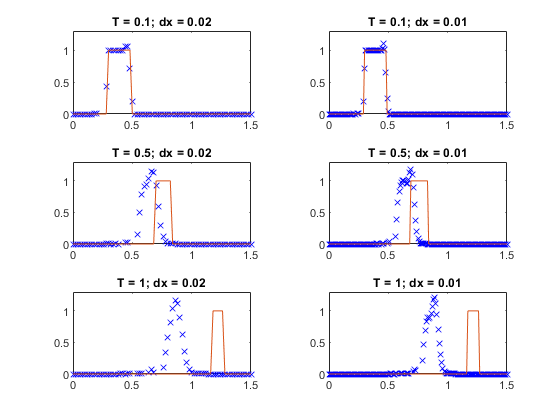
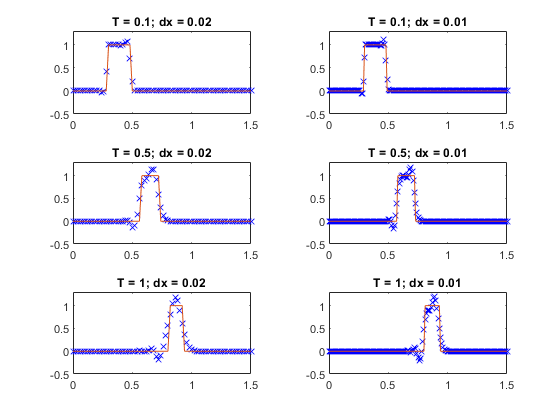
Cambios finales a los programas

diff --git a/Ecuacion_Advection/laxwendroff.m b/Ecuacion_Advection/laxwendroff.m
@@ -5,17 +5,18 @@ function [x, U] = laxwendroff(dx, T)
     t=0;
     tmax = T;
     a= @(x, t) (1+x.^2)/(1+2*x.*t+2*x.^2+x.^4);
+    at = @(x, t) -2*x*(1+x^2)/(1+2*x*t+2*x^2+x^4)^2;
     N = (xmax - xmin)/dx;
     nsteps = tmax/dt;
-    x = xmin-dx:dx:xmax+dx;
+    x = xmin:dx:xmax;
     U0 = meseta(0.2, 0.4, x);
     U = U0;
     UP = U0;
     for n = 1:nsteps
-        U(1)=U(3);
-        U(N+3)=U(N+1);
         for i=2:length(x)-1
-            UP(i) = U(i) - (a(x(i), t)/2)*(U(i+1)-U(i-1))+(((a(x(i), t))^2)/2)*(U(i-1)-2*U(i)+U(i+1));
+            delta_ox = (U(i+1)-U(i-1))/2;
+            sigma_x = a(x(i)+dx/2, t)*U(i+1)-U(i)*(a(x(i)-dx/2, t)+a(x(i)+dx/2, t))+U(i-1)*a(x(i)-dx/2, t);
+            UP(i) = U(i) - a(x(i), t)*delta_ox + (dt^2)/2*(-at(x(i), t)*delta_ox/dx + a(x(i), t)*sigma_x/dx^2);
         end
         t=t+dt;
         U=UP;

diff --git a/finite_elements/laplace_ex.m b/finite_elements/laplace_ex.m
@@ -6,8 +6,32 @@ B=spdiags([-e 4*e -e], -1:1, n-1, n-1);
 I=speye(n-1, n-1);
 I1=spdiags([-e -e], [-1 1], n-1, n-1);
 A = kron(I, B)+kron(I1, I)
+A=A/h^2;
+f=ones((n-1)^2, 1);
+%aproximacion en los nodos inferiores
+y=A\f;
+%añado las condiciones de contorno Dirichlet homogéneas
+val = zeros(n-1, n-1);
+%En val(i, j) meto el valor del nodo (xi, yj)
+for i = 1:n-1
+    for j=1:n-1
+        val(i, j) = y(j + (n-1)*(i-1));
+    end
+end
+valnn = [zeros(n-1, 1)';val;zeros(n-1, 1)'];
+valnn = [zeros(n+1, 1), valnn, zeros(n+1, 1)];
+xx = linspace(0, 1, n+1);
+yy = linspace(0, 1, n+1);
+[X, Y] = meshgrid(xx, yy);
+figure(3)
+mesh(X, Y, valnn)
+
+
 figure(1)
 spy(A)
 [m, n] = lu(A);
 figure(2)
 spy(m)
+ml = ichol(sparse(A));
+figure(4);
+spy(ml)

diff --git a/Ecuacion_Advection/upwind.m b/Ecuacion_Advection/upwind.m
@@ -3,24 +3,22 @@ function [x, U] = upwind(dx, T)
     xmin = 0;
     xmax = 2;
     dt = dx;
-    t=0;
     tmax = T;
-    a= @(x, t) (1+x^2)/(1+2*x*t+2*x^2+x^4);
+    a= @(x, t) (1+x.^2)/(1+2*x.*t+2.*x.^2+x.^4);
+    t_c=0;
     N = (xmax - xmin)/dx;
     nsteps = tmax/dt;
-    x = xmin-dx:dx:xmax+dx;
+    x = xmin:dx:xmax;
+    
     U0 = meseta(0.2, 0.4, x);
     U = U0;
+    J= length(x);
     UP = U0;
     for n = 1:nsteps
-        U(1)=U(3);
-        U(N+3)=U(N+1);
-        for i=2:N+2
-            UP(i) = U(i) - a(x(i), t)*dt/dx*(U(i)-U(i-1));
+        for i=2:J
+            UP(i) = U(i) - a(x(i), t_c)*dt/dx*(U(i)-U(i-1));
         end
-        t=t+dt;
-        U=UP;
+        U = UP;
+        t_c = t_c+dt
     end   
-    
 end
-

diff --git a/Ecuacion_Advection/main.m b/Ecuacion_Advection/main.m
@@ -30,7 +30,7 @@ for i=1:3
         hold on;
         plot(x, meseta(0.2,0.4, exact(x, T(i)))); 
         title('T = '+string(T(i))+'; dx = '+string(dx(j)));
-        ylim([0, 1.3]); 
+        ylim([-0.5, 1.3]); 
         xlim([0 1.5]);
         hold off;
     end

diff --git a/Ecuacion_Advection/meseta.m b/Ecuacion_Advection/meseta.m
@@ -2,6 +2,6 @@ function [u_estrella] = meseta(a, b, x);
     u_estrella=zeros(length(x), 1);
     for i  = 1:length(x)
         if x(i)>=a && x(i)<=b
-            u_estrella(i)=1
+            u_estrella(i)=1;
         end
     end
